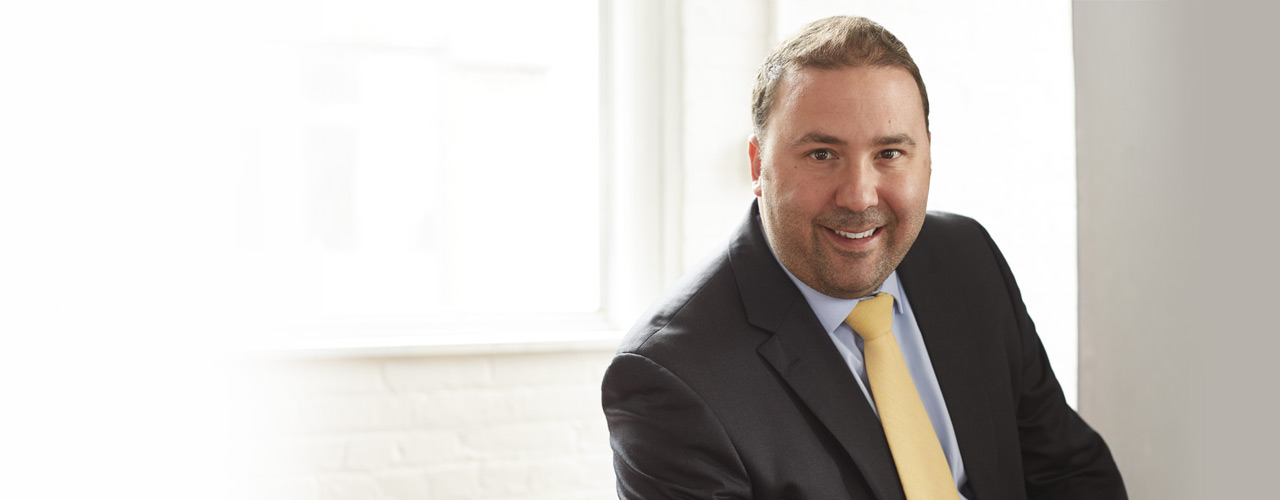
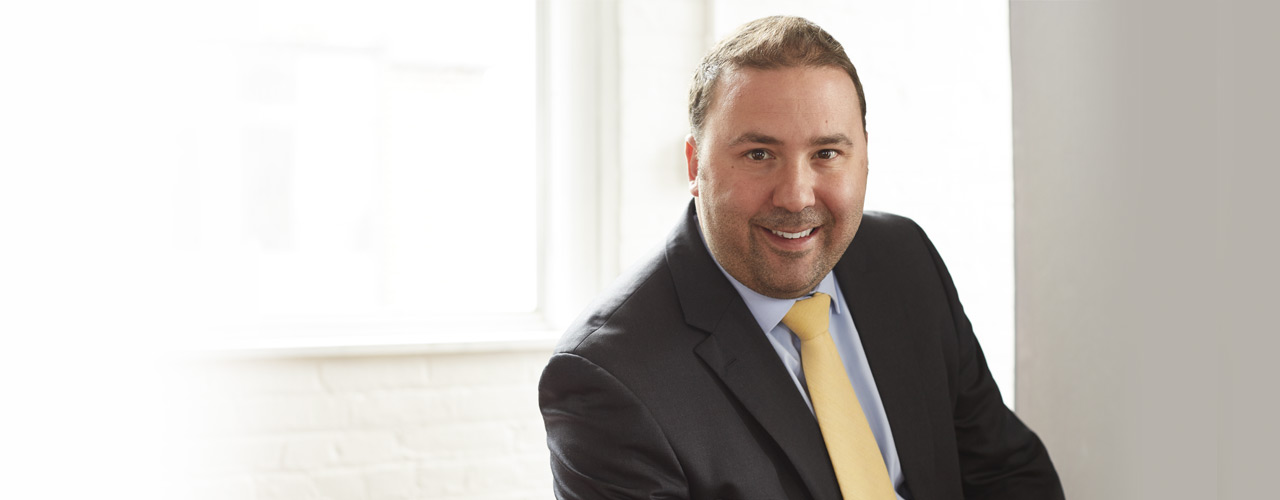
Photo updates

Changed region(s): [[0.4062, 0.0, 0.9062, 1.0], [0.1875, 0.69, 0.2812, 0.75]]

diff --git a/css/main.css b/css/main.css
@@ -726,6 +726,19 @@ li.sidebar-link > a.active:before {
 /* media queries */
 /* ----------------------------------------------------------*/
 
+@media screen and (max-width: 1024px) {
+
+  h1 .image-headline {
+    line-height: 48px;
+    font-size: 32px;
+  }
+
+  .subpage-header h1 .image-headline {
+    line-height: 48px;
+    font-size: 32px;
+  }
+
+}
 
 @media screen and (max-width: 768px) {
 
@@ -739,9 +752,14 @@ li.sidebar-link > a.active:before {
       text-align: left !important;
   }
 
+  .welcome-wrapper {
+    margin-top: 240px;
+    text-align: center !important;
+  }
+
 }
 
-@media screen and (max-width: 600px) {
+@media screen and (max-width: 480px) {
 
   .wrap { padding: 0 12px; }
 
@@ -801,14 +819,9 @@ li.sidebar-link > a.active:before {
     display: none;
   }
 
-  h1 .image-headline {
-    line-height: 48px;
-    font-size: 32px;
-  }
-
-  .subpage-header h1 .image-headline {
-    line-height: 48px;
-    font-size: 32px;
+  .welcome-wrapper {
+    margin-top: 240px;
+    text-align: center !important;
   }
 
 

diff --git a/_layouts/page.html b/_layouts/page.html
@@ -6,7 +6,7 @@ layout: default
 	    {% if site.default_bg contains 'http' %}
 	        {% capture default_bg_uri %}{{ site.default_bg }}{% endcapture %}
 	    {% else %}
-	        {% capture default_bg_uri %}{{ site.url }}/images/{{ site.default_bg }}{% endcapture %}
+	        {% capture default_bg_uri %}{{ site.url }}/images/{{ site.subpage_bg }}{% endcapture %}
 	    {% endif %}
 	    <div class="container-fluid welcome" style="background-image: url('{{default_bg_uri}}')">
 	{% else %}
@@ -14,7 +14,7 @@ layout: default
 	{% endif %}
 		<div class="row">
 			<div class="container">
-				<div class="col-md-6 box">
+				<div class="col-sm-6 box">
 					<div class="welcome-wrapper">
 						<h1><span class="image-headline">{{ site.title }}</span></h1>
 					</div>

diff --git a/index.html b/index.html
@@ -15,7 +15,7 @@ layout: default
 {% endif %}
 		<div class="row">
 			<div class="container">
-				<div class="col-md-6 box">
+				<div class="col-sm-6 box">
 					<div class="welcome-wrapper">
 						<h1><span class="image-headline">{{ site.title }}</span></h1>
 					</div>
